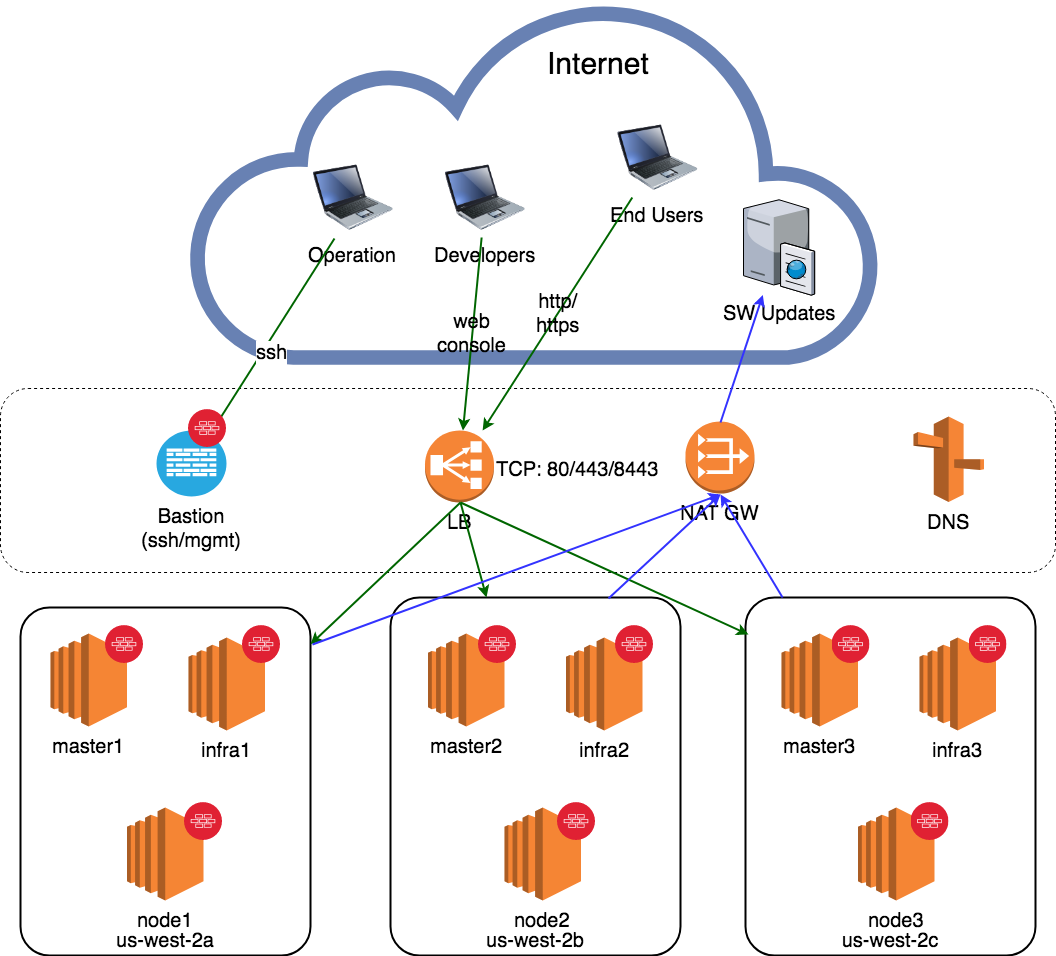
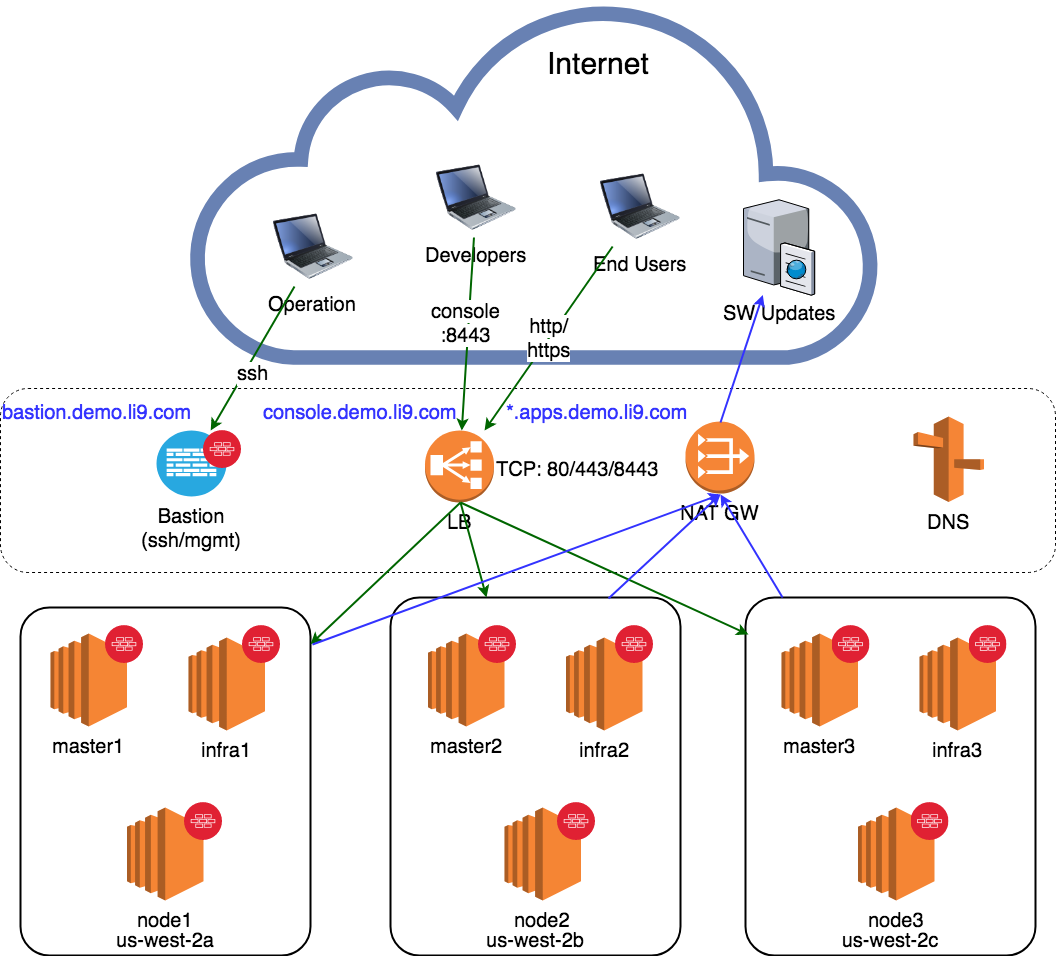
updated diagram

Changed region(s): [[0.25, 0.1213, 0.6562, 0.455], [0.2188, 0.1517, 0.375, 0.4247], [0.0, 0.4247, 0.25, 0.4854]]

diff --git a/README.md b/README.md
@@ -15,9 +15,12 @@ The Architecture looks like the following:
 
 ![GitHub Logo](ocp-ha-on-aws.png)
 
+The original RedHat Architecture is located [here](https://access.redhat.com/documentation/en-us/reference_architectures/2018/html/deploying_and_managing_openshift_3.9_on_amazon_web_services/reference_architecture_summary)
+
 # Requirements
 - Valid AWS account with Admin priviledges
 - Valid Red Hat Enterprise Openshift Subscription
+- Laptop running your favourite OS. 
 
 # Automated scripts
 If you do not want to read the details of this project and just get things done, then follow the procedure below:
